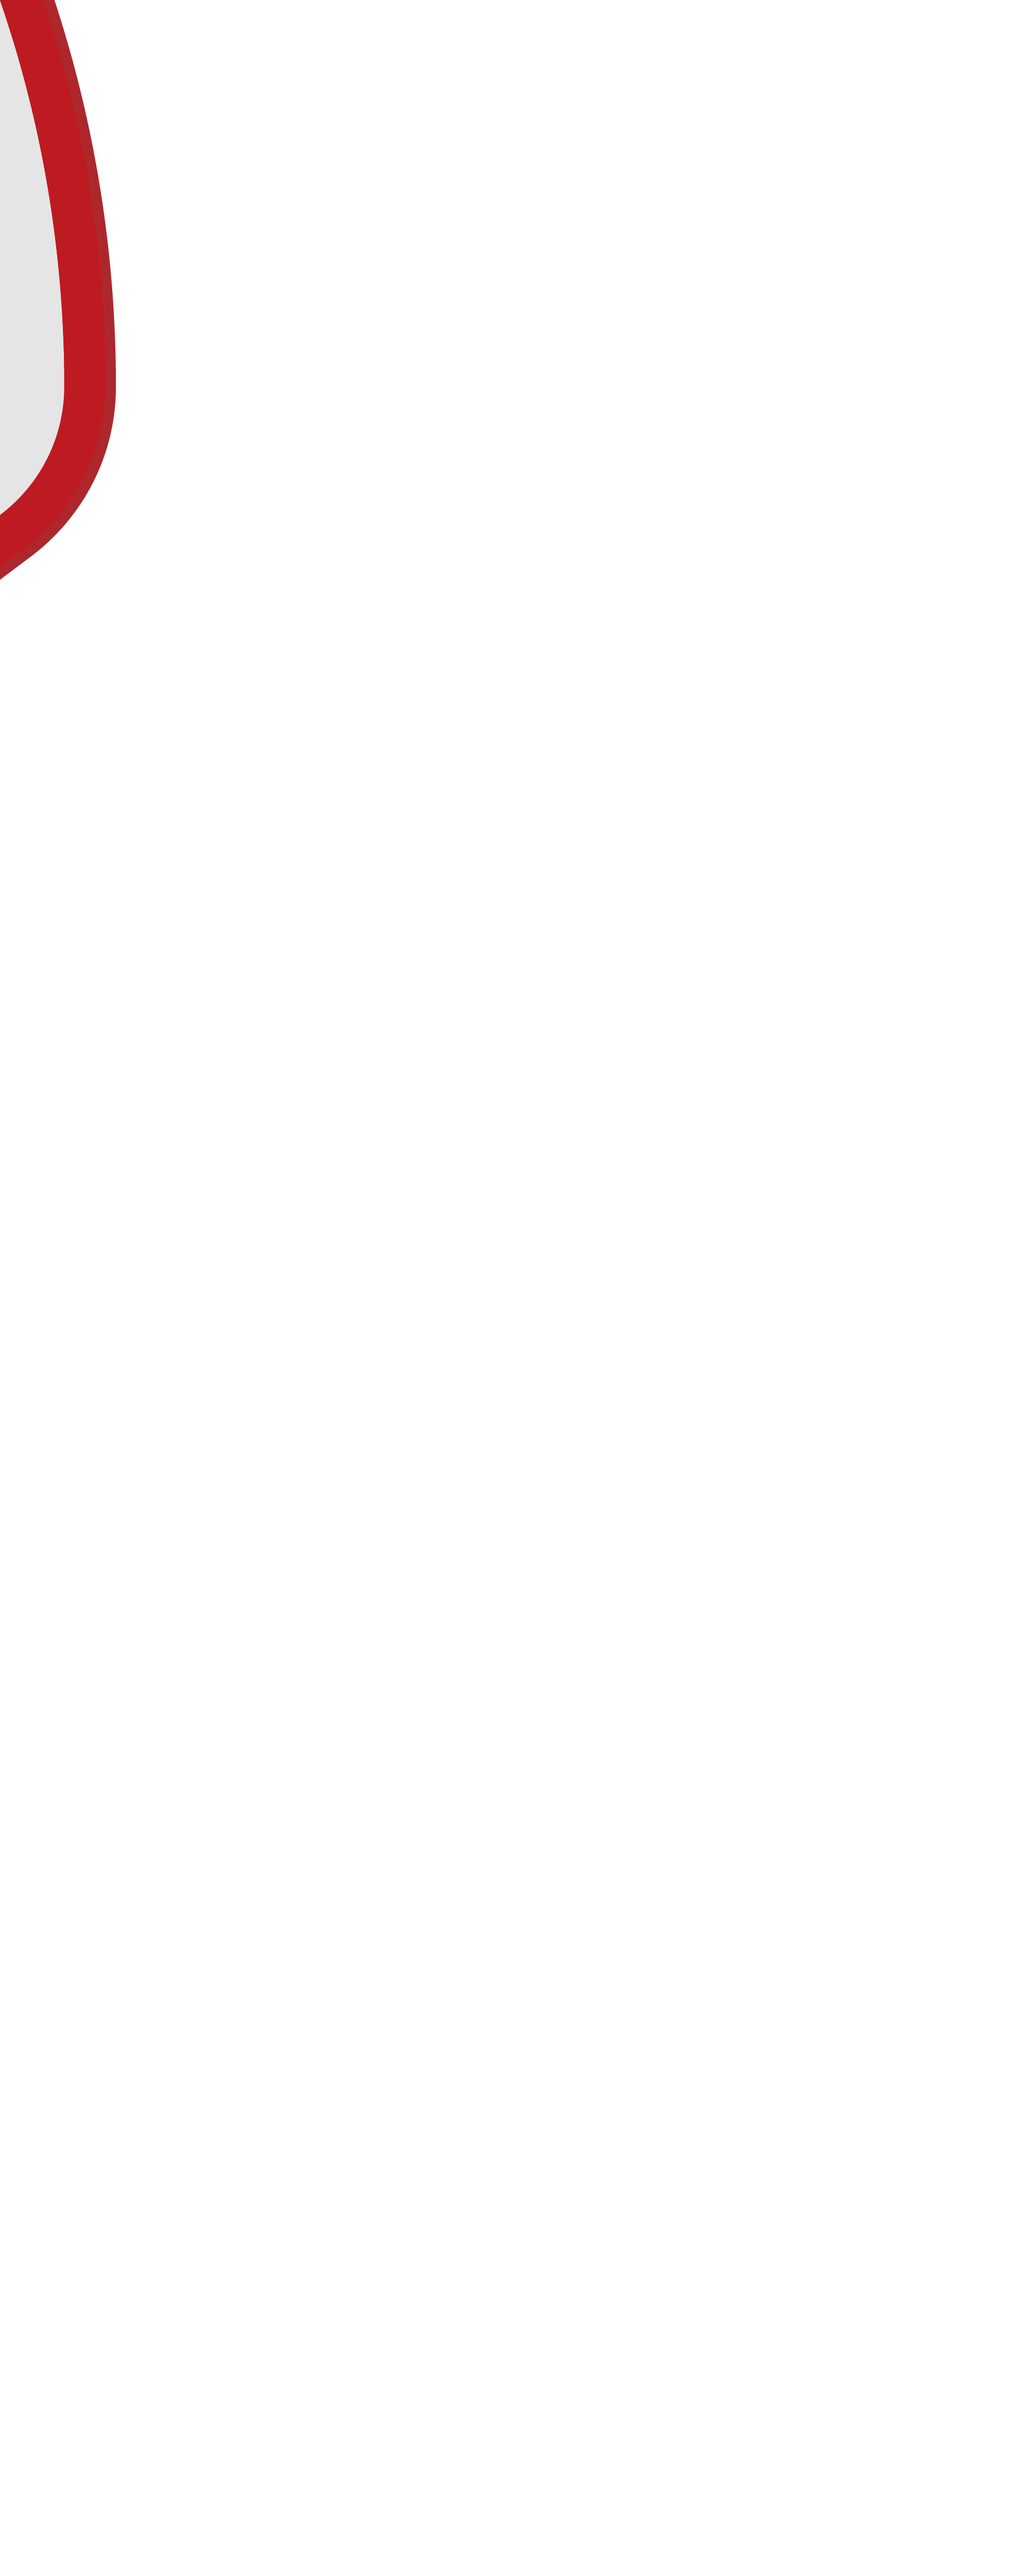
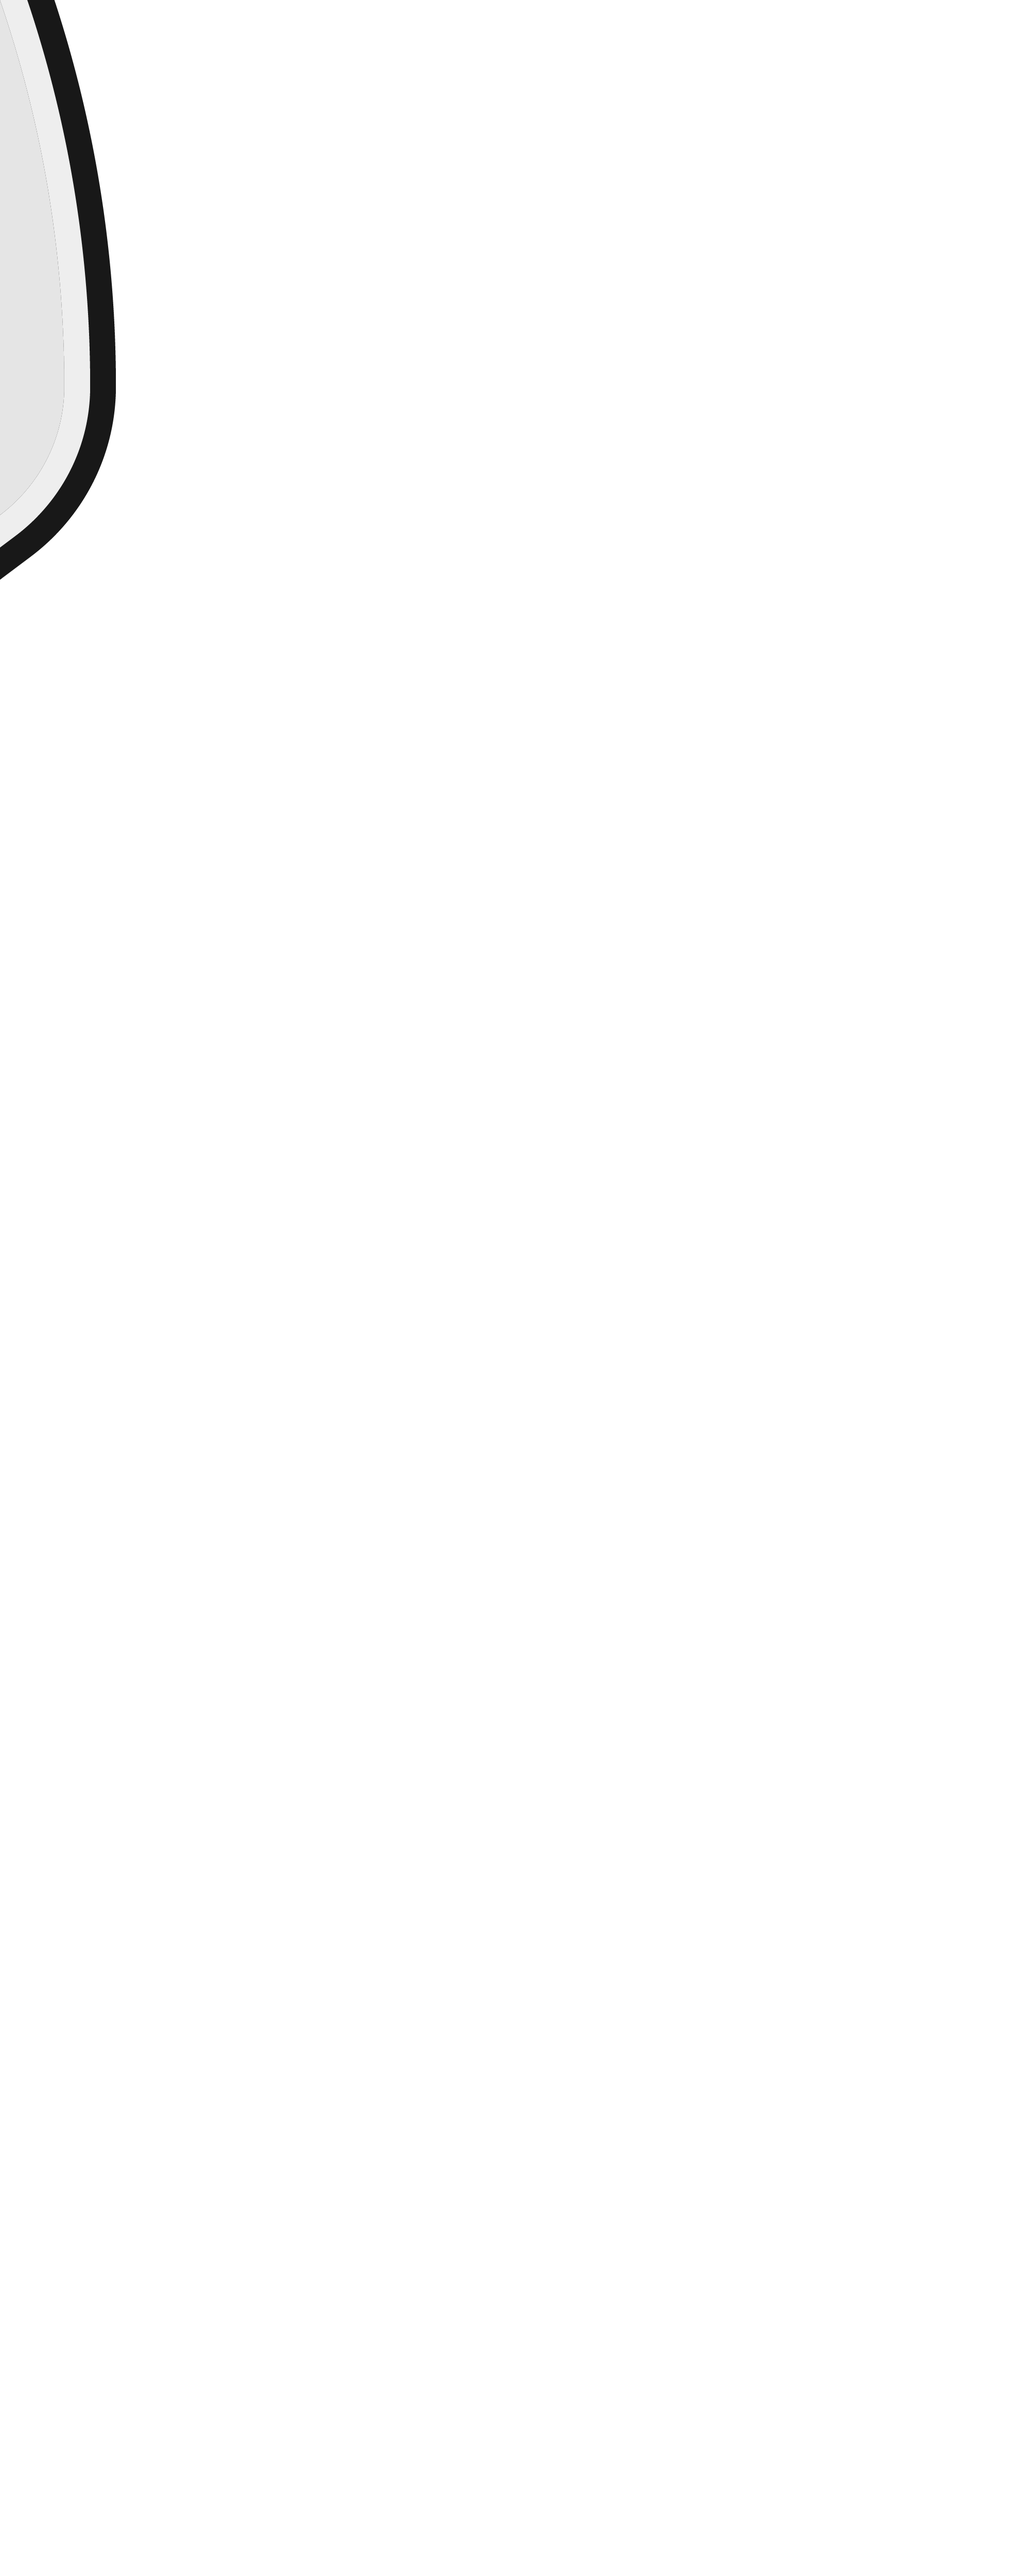
TOR City / UTA perm jerseys added

Changed region(s): [[0.0, 0.0, 0.124, 0.2184]]

diff --git a/app/app.js b/app/app.js
@@ -119,10 +119,10 @@ const jerseyInfo = {
     "SASIcoBack": ["Knicks", "#eeeeee", "#8D8E8E", "#eeeeee","#111111"],
     "SASStaBack": ["Knicks", "#111111", "#eeeeee", "#111111","#8D8E8E"],
     "SASCitBack": ["Knicks", "#eeeeee", "#8D8E8E", "#eeeeee","#111111"],
-    "TORAssBack": ["Raptors", "#bd1b21", "#222222", "#bd1b21","#eeeeee"],
-    "TORIcoBack": ["Raptors", "#222222", "#eeeeee", "#222222","#bd1b21"],
-    "TORStaBack": ["Raptors", "#bd1b21", "#eeeeee", "#bd1b21","#222222"],
-    "TORCitBack": ["Raptors", "#bd1b21", "transparent", "#f8f8f8","#222222"],
+    "TORAssBack": [["Raptors", "Agency FB", "Agency1"], "#bd1b21", "#222222", "#bd1b21","#eeeeee"],
+    "TORIcoBack": [["Raptors", "Agency FB", "Agency1"], "#222222", "#eeeeee", "#222222","#bd1b21"],
+    "TORStaBack": [["Raptors", "Agency FB", "Agency1"], "#bd1b21", "#eeeeee", "#bd1b21","#222222"],
+    "TORCitBack": [["Agency FB", "Agency1"], "#f8f8f8", "transparent", "#f8f8f8","#222222"],
 }
 
 for (let i = 1; i < allJerseyTypes.length; i++) {

diff --git a/app/desktopJersey.js b/app/desktopJersey.js
@@ -115,7 +115,7 @@ const jerseyInfo = {
     "TORAssBack": ["Raptors", "#bd1b21", "#222222", "#bd1b21","#eeeeee"],
     "TORIcoBack": ["Raptors", "#222222", "#eeeeee", "#222222","#bd1b21"],
     "TORStaBack": ["Raptors", "#bd1b21", "#eeeeee", "#bd1b21","#222222"],
-    "TORCitBack": ["Raptors", "#bd1b21", "transparent", "#f8f8f8","#222222"],
+    "TORCitBack": [["Agency FB", "Agency1"], "#f8f8f8", "transparent", "#f8f8f8","#222222"],
 }
 
 const nameDisplay = document.getElementById("name");
